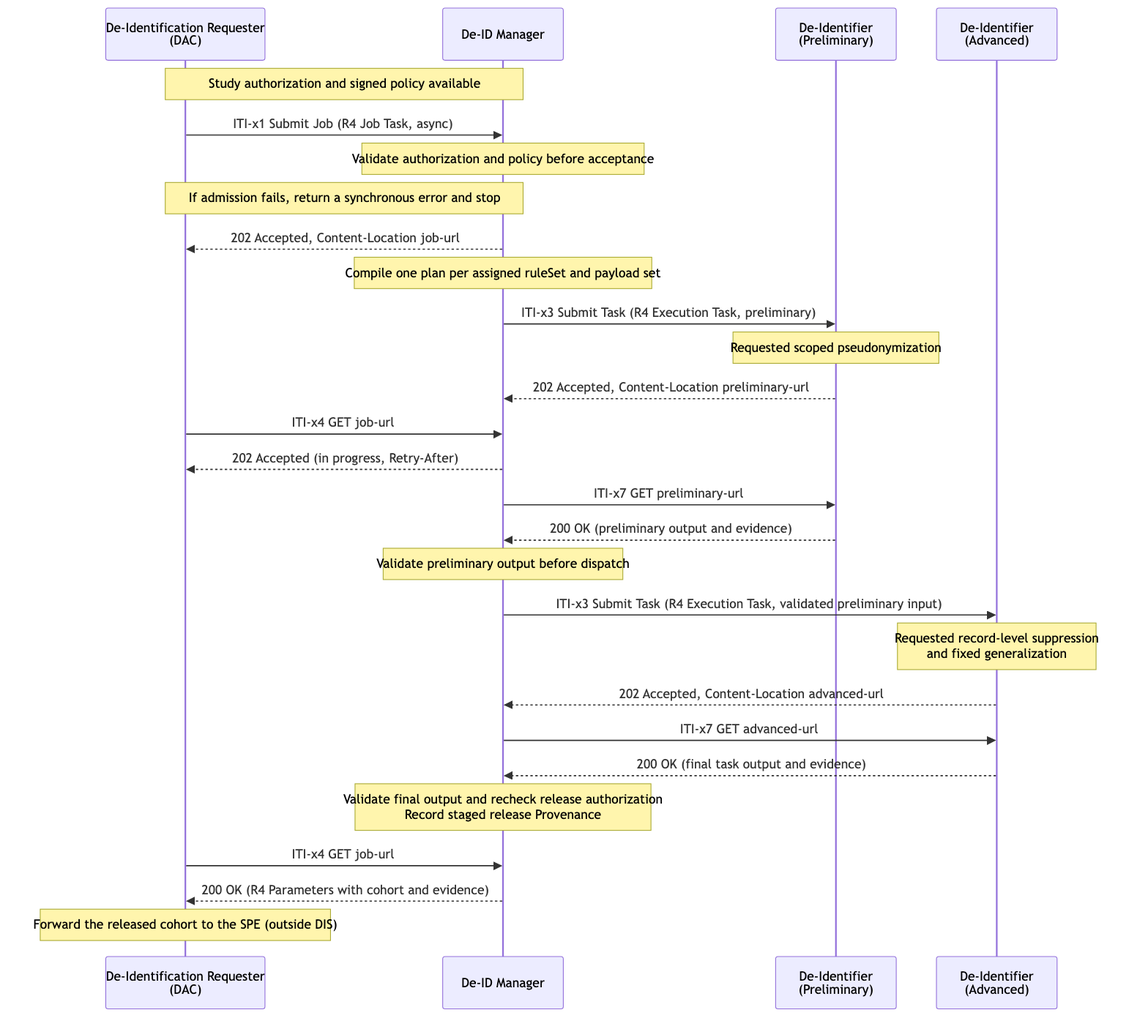
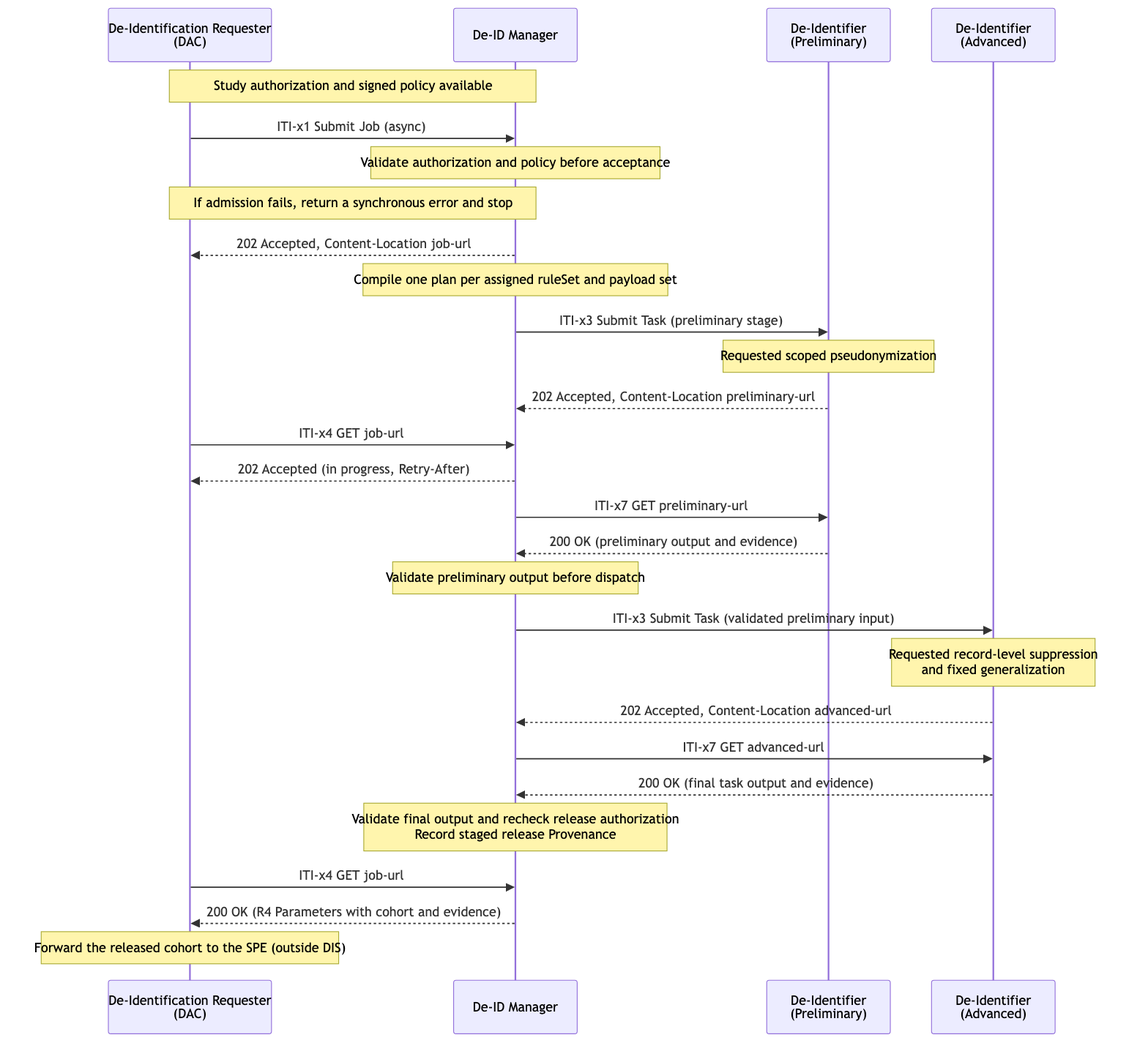
Use de-identification job and task in workflow prose

diff --git a/input/pagecontent/volume-1.md b/input/pagecontent/volume-1.md
@@ -71,7 +71,7 @@ The actors in this profile are described in more detail in the sections below.
 
 #### 1:PXX.1.1.1 De-Identification Requester
 
-The De-Identification Requester submits a complete R4 Job Task to the De-ID Manager. It carries the authorization and each selected payload set with its approved policy canonical and version. In synchronous mode, the Requester receives the result for each payload set in the ITI-x1 response, either as an inline result package or as an authorized HTTPS URL to retrieve it. In asynchronous mode, the Requester polls for job status and results via ITI-x4.
+The De-Identification Requester submits a de-identification job to the De-ID Manager with the authorization and each selected payload set with its approved policy canonical and version. In synchronous mode, the Requester receives the result for each payload set in the ITI-x1 response, either as an inline result package or as an authorized HTTPS URL to retrieve it. In asynchronous mode, the Requester polls for job status and results via ITI-x4.
 
 Phase 1 does not standardize how the Requester obtains or discovers a de-identification policy. The Requester declares the approved policy for each payload set by canonical URL and version in ITI-x1. Implementers MAY use any mechanism that produces a valid policy, including local configuration, administrative provisioning, bilateral agreement, or integration with an external policy management system.
 
@@ -79,7 +79,7 @@ Phase 1 does not standardize how the Requester obtains or discovers a de-identif
 
 #### 1:PXX.1.1.2 De-ID Manager
 
-The De-ID Manager receives de-identification jobs via ITI-x1, validates the data request authorization and verifies that each payload set's policy matches the policy approved in the authorization, prepares an execution plan for each assigned ruleSet and payload set, dispatches scoped R4 Execution Tasks to De-Identifiers via ITI-x3, and returns de-identified output and provenance evidence to the Requester.
+The De-ID Manager receives de-identification jobs via ITI-x1, validates the data request authorization and verifies that each payload set's policy matches the policy approved in the authorization, prepares an execution plan for each assigned ruleSet and payload set, dispatches de-identification tasks to De-Identifiers via ITI-x3, and returns de-identified output and provenance evidence to the Requester.
 
 The De-ID Manager retains persistent custody of Manager-managed identity mappings and reversibility records; a Requester may retain and supply its own lookup table for reversible jobs (§1:PXX.2.2). Whether these records are persisted depends on the declared reversibility mode (see [1:PXX.2.2](#1pxx22-reversible-pseudonymization-option) and [1:PXX.2.6](#1pxx26-irreversible-de-identification-option)). See [1:PXX.4.1](#1pxx41-concepts) for the policy model, four-point validation, and policy variants. See [1:PXX.5.4](#1pxx54-reversibility-material-custody) for custody obligations.
 
@@ -111,13 +111,13 @@ The transactions in this profile are summarized in the sections below.
 
 #### 1:PXX.1.2.1 Submit De-Identification Job [ITI-x1]
 
-The Requester submits an R4 Job Task containing the data request authorization and identifying the approved policy for each payload set. The De-ID Manager or Integrated actor validates the submission and orchestrates processing. In synchronous mode, the response returns one result per payload set, with each result package delivered inline or by authorized HTTPS URL. In asynchronous mode, acceptance provides a polling URL for ITI-x4.
+The Requester submits a de-identification job with the data request authorization and identifies the approved policy for each payload set. The De-ID Manager or Integrated actor validates the submission and orchestrates processing. In synchronous mode, the response returns one result per payload set, with each result package delivered inline or by authorized HTTPS URL. In asynchronous mode, acceptance provides a polling URL for ITI-x4.
 
 For more details see the detailed [transaction description](volume-2.html#23x1-submit-de-identification-job-iti-x1).
 
 #### 1:PXX.1.2.2 Submit De-Identification Task [ITI-x3]
 
-The De-ID Manager dispatches an R4 Execution Task to a De-Identifier. Each task carries the execution plan for one ruleSet applied to one payload set. In synchronous mode, the De-Identifier returns the result package inline or by authorized HTTPS URL. In asynchronous mode, acceptance provides a polling URL for ITI-x7.
+The De-ID Manager dispatches a de-identification task to a De-Identifier with the execution plan for one ruleSet applied to one payload set. In synchronous mode, the De-Identifier returns the result package inline or by authorized HTTPS URL. In asynchronous mode, acceptance provides a polling URL for ITI-x7.
 
 For more details see the detailed [transaction description](volume-2.html#23x3-submit-de-identification-task-iti-x3).
 
@@ -299,14 +299,14 @@ DIS introduces the following key concepts that provide necessary background for 
 
 #### 1:PXX.4.1.1 De-Identification Job and De-Identification Task
 
-- **De-Identification Job.** The overall de-identification work authorized for one request. It covers all selected payload sets, each with its own approved policy version, and includes coordinating the assignments and validating the results for release. For an external submission, the Requester represents the job as a **Job Task** and submits it through ITI-x1 with the data request authorization.
-- **De-Identification Task.** An assignment within a job that applies one ruleSet to one payload set or subset using one execution plan. When a policy declares stages, each assigned ruleSet belongs to one stage, which determines its place in the execution order. In distributed processing, the De-ID Manager represents the assignment as an **Execution Task** and submits it through ITI-x3. The Integrated actor performs assignments locally.
+- **De-Identification Job.** The overall de-identification work authorized for one request. It covers all selected payload sets, each with its own approved policy version, and includes coordinating the assignments and validating the results for release. The Requester submits an external job through ITI-x1 with the data request authorization.
+- **De-Identification Task.** An assignment within a job that applies one ruleSet to one payload set or subset using one execution plan. When a policy declares stages, each assigned ruleSet belongs to one stage, which determines its place in the execution order. In distributed processing, the De-ID Manager dispatches the task through ITI-x3. The Integrated actor performs assignments locally.
 
-After accepting a Job Task for distributed processing, the De-ID Manager organizes the job into one or more De-Identification Tasks. In UC-2, one job selects two payload sets, each with one ruleSet. The Manager creates one Execution Task for the R4 clinical and laboratory records and another for the R5 CT measurements. The Manager dispatches each task to its assigned De-Identifier and assembles both validated results for the original job. [UC-2 worked example](examples-grouped-fhir-job.html)
+After accepting a de-identification job for distributed processing, the De-ID Manager creates one or more de-identification tasks. In UC-2, one job selects two payload sets, each with one ruleSet. The Manager creates one task for the R4 clinical and laboratory records and another for the R5 CT measurements. The Manager dispatches each task to its assigned De-Identifier and assembles both validated results for the original job. [UC-2 worked example](examples-grouped-fhir-job.html)
 
 The Manager tracks which job, set, ruleSet, and stage each assignment belongs to. It uses that association to validate results, coordinate cancellation, and link audit records. A De-Identifier receives the information needed for its assignment. See the [assignment correlation and disclosure rules](volume-2.html#assignment-correlation).
 
-Job Task and Execution Task are profiles of the FHIR R4 `Task` resource. Each payload set declares its processing payload release independently, as described in [Cross-Version Payload Support](#1pxx232-cross-version-payload-support).
+The ITI-x1 job submission and ITI-x3 task submission each use a FHIR R4 `Task` resource conforming to the profile for that transaction. Each payload set declares its processing payload release independently, as described in [Cross-Version Payload Support](#1pxx232-cross-version-payload-support).
 
 #### 1:PXX.4.1.2 Policy, Payload, and Evidence
 
@@ -323,7 +323,7 @@ A de-identification policy is a reusable knowledge artifact. The same policy may
 
 Every ITI-x1 request declares the approved policy for each payload set by canonical URL and version. The Requester may also carry the policy content for each set.
 
-- **Policy content carried (`policyContent` present)** -- the Job Task carries the JWS-signed policy Library in a contained `Binary` resource referenced by the set. The Manager verifies the JWS signature and confirms the Library's canonical URL and version match the declared values. The Requester obtains the signed artifact through its implementation-defined mechanism.
+- **Policy content carried (`policyContent` present)** -- the job submission carries the JWS-signed policy Library in a contained `Binary` resource referenced by the set. The Manager verifies the JWS signature and confirms the Library's canonical URL and version match the declared values. The Requester obtains the signed artifact through its implementation-defined mechanism.
 - **Policy content resolved by Manager (`policyContent` absent)** -- the Manager resolves the declared policy version by implementation-defined means.
 
 A policy may be authored at the Semantic-Level or the Syntax-Level. A Semantic-Level policy uses semantic group references (`@subject-identifiers`, `@dates`, etc.) and is format-neutral -- it can be reused across data formats and use cases. Before execution, the Manager compiles it into a payload-specific execution plan. A Syntax-Level policy uses concrete element paths (FHIRPath, DICOM tags, etc.) for a specific payload family and version -- it is directly executable after validation. Both levels go through the same four-point validation. Both are approved by the joint privacy team.
@@ -420,13 +420,13 @@ A research consortium conducts a cross-border epidemiological study combining po
 
 Clinical data remain under primary-use governance when recorded or exchanged for care. Their reuse begins only after a secondary-use request has been assessed and an authorization context has been issued. The Data Access Coordinator (DAC) coordinates participating jurisdictions, resolves authorized source-data provision, and -- acting as the De-Identification Requester -- submits a DIS job to produce a cohort dataset transformed by pseudonymization and policy-specified record-level rules for subsequent delivery to a Secure Processing Environment (SPE).
 
-The DAC submits an asynchronous R4 Job Task through ITI-x1 with the data request authorization, the approved policy canonical and version, and a Bulk FHIR manifest that selects the prepared cohort. The Manager resolves that exact policy version from its trusted policy store and validates it against the authorization before accepting the job. It compiles a separate plan for each of the two assigned ruleSets.
+The DAC submits an asynchronous de-identification job through ITI-x1 with the data request authorization, the approved policy canonical and version, and a Bulk FHIR manifest that selects the prepared cohort. The Manager resolves that exact policy version from its trusted policy store and validates it against the authorization before accepting the job. It compiles a separate plan for each of the two assigned ruleSets.
 
 The preliminary ruleSet pseudonymizes direct identifiers with irreversible, project-scoped pseudonyms within the authorized scope identified by `identity-linkage-scope`, using the same authorized scope and deployment-provisioned salt version to preserve linkage for matching source identifier pairs within the de-identified dataset. The advanced ruleSet applies policy-specified record-level transformations such as reducing birth dates to year precision. Small-cell handling and transformations requiring cohort statistics are outside Phase 1; any required dataset-level assessment or processing occurs outside this DIS workflow before release to the SPE.
 
 Because DIS-IRREVERSIBLE is declared, the De-ID Manager does not retain identity tables or pseudonym indices after job completion. No DIS reverse-mapping service is maintained; this does not exclude identification through auxiliary information or reproduction using retained derivation secrets.
 
-Each stage has one assigned ruleSet. The Manager sends the corresponding asynchronous R4 Execution Task through ITI-x3 and polls the assigned De-Identifier through ITI-x7. The Manager validates the preliminary output before dispatching the advanced task with that validated input. It validates the final output, rechecks release authorization, and records staged release Provenance. The DAC retrieves the cohort and its evidence through ITI-x4, then forwards the cohort to the SPE outside the DIS exchange.
+Each stage has one assigned ruleSet. The Manager dispatches the corresponding asynchronous de-identification task through ITI-x3 and polls the assigned De-Identifier through ITI-x7. The Manager validates the preliminary output before dispatching the advanced task with that validated input. It validates the final output, rechecks release authorization, and records staged release Provenance. The DAC retrieves the cohort and its evidence through ITI-x4, then forwards the cohort to the SPE outside the DIS exchange.
 
 The [UC-1 Bulk FHIR cohort example](examples-bulk-fhir-cohort.html) shows both stages, release evidence, NDJSON delivery, and an optional cancellation variant.
 
@@ -446,11 +446,11 @@ An AI/ML consortium prepares a lung cancer cohort for model development or valid
 
 ##### 1:PXX.4.2.2.1 AI/ML Method Development Use Case Description
 
-The consortium holds a data permit identifying the approved cohort, inputs, purposes, policies, and linkage requirements. Acting as the De-Identification Requester, the DAC submits one asynchronous R4 Job Task through ITI-x1 with two FHIR payload sets. One set declares R4 and selects clinical records and laboratory results. The other declares R5 and carries CT-derived measurements as [R5 Observation](https://hl7.org/fhir/R5/observation.html) resources. The DIS requests, responses, and evidence use R4 for both sets.
+The consortium holds a data permit identifying the approved cohort, inputs, purposes, policies, and linkage requirements. Acting as the De-Identification Requester, the DAC submits one asynchronous de-identification job through ITI-x1 with two FHIR payload sets. One set declares R4 and selects clinical records and laboratory results. The other declares R5 and carries CT-derived measurements as [R5 Observation](https://hl7.org/fhir/R5/observation.html) resources. The DIS requests, responses, and evidence use R4 for both sets.
 
 The Manager validates the permit and both approved policies before accepting the job and returning a polling URL. Each set uses one ruleSet. The R4 policy removes `Patient.name` and preserves links from the laboratory results to the output Patient. The R5 policy retains the CT measurements and removes the patient reference because the permit authorizes those measurements for independent analysis. The job selects irreversible processing. A `setId` correlates each set with its task and result within the job.
 
-The Manager dispatches a synchronous R4 Execution Task through ITI-x3 for each set and validates both results. The job remains asynchronous at the Requester–Manager interface. If the acceptance response is lost, the DAC can recover the original polling URL using the same submission and the recovery header. After rechecking release authorization, the Manager makes both sets and their evidence available through ITI-x4. The DAC delivers the approved FHIR output to the SPE outside DIS.
+The Manager dispatches a synchronous de-identification task through ITI-x3 for each set and validates both results. The job remains asynchronous at the Requester–Manager interface. If the acceptance response is lost, the DAC can recover the original polling URL using the same submission and the recovery header. After rechecking release authorization, the Manager makes both sets and their evidence available through ITI-x4. The DAC delivers the approved FHIR output to the SPE outside DIS.
 
 The [UC-2 mixed-version FHIR example](examples-grouped-fhir-job.html) shows submission recovery, a task and policy for each payload version, and release of both results.
 
@@ -466,9 +466,9 @@ A hospital EHR pseudonymizes patient context before sending a laboratory order t
 
 ##### 1:PXX.4.2.3.1 Clinical Pathology Order Use Case Description
 
-Institutional policy prohibits the external lab from seeing direct patient identifiers. The EHR submits a synchronous R4 Job Task through ITI-x1 with care-context authorization, the canonical and version of a hospital-approved Semantic-Level policy, and an inline manifest package selecting the `Patient` and `ServiceRequest`. The Manager resolves the declared policy version from its institutional policy store.
+Institutional policy prohibits the external lab from seeing direct patient identifiers. The EHR submits a synchronous de-identification job through ITI-x1 with care-context authorization, the canonical and version of a hospital-approved Semantic-Level policy, and an inline manifest package selecting the `Patient` and `ServiceRequest`. The Manager resolves the declared policy version from its institutional policy store.
 
-The Manager validates the authorization and policy, then submits a synchronous R4 Execution Task through ITI-x3 with the compiled plan for one ruleSet. The De-Identifier assigns a scoped pseudonym and preserves the `ServiceRequest.subject` link to the pseudonymized `Patient`. Matching source identifier pairs yield the same pseudonym when the worker uses the same authorized scope, effective salt, and salt version. The EHR uses that consistency to correlate later lab results. The Manager returns the pseudonymized result package and evidence inline through ITI-x1.
+The Manager validates the authorization and policy, then dispatches a synchronous de-identification task through ITI-x3 with the compiled plan for one ruleSet. The De-Identifier assigns a scoped pseudonym and preserves the `ServiceRequest.subject` link to the pseudonymized `Patient`. Matching source identifier pairs yield the same pseudonym when the worker uses the same authorized scope, effective salt, and salt version. The EHR uses that consistency to correlate later lab results. The Manager returns the pseudonymized result package and evidence inline through ITI-x1.
 
 The De-Identifier returns the generated lookup table to the Manager, which validates and retains the mapping before release. The EHR sends the pseudonymized order to the lab. When the result comes back with the pseudonym, the EHR uses an authorized, implementation-defined resolution interaction to associate it with the correct chart. The Manager provides only the resolution result needed for that association. The lab exchange and resolution occur outside DIS.
 
@@ -486,7 +486,7 @@ A hospital EHR pseudonymizes patient data before transmitting to a cloud-hosted 
 
 ##### 1:PXX.4.2.4.1 AI-Assisted Clinical Decision Support Use Case Description
 
-A clinician triggers AI decision support for an active encounter. The EHR submits a synchronous R4 Job Task through ITI-x1 to the on-premise Manager with a requester-carried, signed Syntax-Level R4 policy and its approved canonical and version. A versioned HTTPS manifest selects the `Patient` and the authorized linked clinical resources, such as `Observation` and `Encounter`. The Manager verifies the signature and the approved policy identity. The Manager sends an R4 Execution Task through ITI-x3 to an on-premise De-Identifier. The output clinical references remain linked to the pseudonymized `Patient`.
+A clinician triggers AI decision support for an active encounter. The EHR submits a synchronous de-identification job through ITI-x1 to the on-premise Manager with a requester-carried, signed Syntax-Level R4 policy and its approved canonical and version. A versioned HTTPS manifest selects the `Patient` and the authorized linked clinical resources, such as `Observation` and `Encounter`. The Manager verifies the signature and the approved policy identity. The Manager dispatches a synchronous de-identification task through ITI-x3 to an on-premise De-Identifier. The output clinical references remain linked to the pseudonymized `Patient`.
 
 The De-Identifier returns the output and evidence to the Manager. When it generates patient mappings, it also returns the protected `generatedLookupTable`. The Manager validates and retains the mappings before releasing the pseudonymized result and evidence to the EHR through ITI-x1. The EHR sends the pseudonymized clinical data to the cloud service outside DIS and receives recommendations referencing the pseudonym.
 

diff --git a/input/pagecontent/volume-2.md b/input/pagecontent/volume-2.md
@@ -15,8 +15,8 @@ ITI-x1 and ITI-x3 each define one required operation input named `workItem` of t
 
 | Transaction | Input | Successful response |
 |-------------|-------|---------------------|
-| ITI-x1 Submit Job | [DIS Job Task](StructureDefinition-DIS-JobTask.html) with one authorization and one or more payload sets. | HTTP 200 with one `payloadResult` per submitted set and one `validationStatus`, or HTTP 202 with `Content-Location` and an empty body for an accepted async job. |
-| ITI-x3 Submit Task | [DIS Execution Task](StructureDefinition-DIS-ExecutionTask.html) with one assigned set and its execution instructions. | HTTP 200 with one `payloadResult` and one `validationStatus`, plus a protected `generatedLookupTable` when required, or HTTP 202 with `Content-Location` and an empty body for an accepted async task. |
+| ITI-x1 Submit Job | FHIR R4 `Task` conforming to [`DIS-JobTask`](StructureDefinition-DIS-JobTask.html) with one authorization and one or more payload sets. | HTTP 200 with one `payloadResult` per submitted set and one `validationStatus`, or HTTP 202 with `Content-Location` and an empty body for an accepted async job. |
+| ITI-x3 Submit Task | FHIR R4 `Task` conforming to [`DIS-ExecutionTask`](StructureDefinition-DIS-ExecutionTask.html) with one assigned set and its execution instructions. | HTTP 200 with one `payloadResult` and one `validationStatus`, plus a protected `generatedLookupTable` when required, or HTTP 202 with `Content-Location` and an empty body for an accepted async task. |
 | ITI-x4 Retrieve Job Output | Authorized GET of the job polling URL, or DELETE when cancellable mode was confirmed. | HTTP 200 with the same body as synchronous ITI-x1 success. HTTP 202 indicates processing is pending and carries no result. |
 | ITI-x7 Retrieve Task Output | Authorized GET of the task polling URL, or DELETE when cancellable mode was confirmed. | HTTP 200 with the same body as synchronous ITI-x3 success. HTTP 202 indicates processing is pending and carries no result. |
 {: .grid}
@@ -165,9 +165,9 @@ The De-Identification Requester sends a Submit De-Identification Job Request whe
 
 The De-Identification Requester SHALL invoke the `$submit-dis-job` operation using `POST [base]/$submit-dis-job`. The request SHALL use `Content-Type: application/fhir+json`.
 
-The request body SHALL be a [DIS Job Task](StructureDefinition-DIS-JobTask.html) with `intent = order` and `status = requested`. The following coded inputs carry the authorization and selected data.
+The request body SHALL be a FHIR R4 `Task` conforming to [`DIS-JobTask`](StructureDefinition-DIS-JobTask.html) with `intent = order` and `status = requested`. The following coded inputs carry the authorization and selected data.
 
-<p id="t3.x1.4.1.2-1" class="tableTitle"><strong>Table 2:3.x1.4.1.2-1: ITI-x1 Job Task Inputs</strong></p>
+<p id="t3.x1.4.1.2-1" class="tableTitle"><strong>Table 2:3.x1.4.1.2-1: ITI-x1 Job Submission Inputs</strong></p>
 
 | Input code | Cardinality | Value | Description |
 |------------|-------------|-------|-------------|
@@ -334,9 +334,9 @@ The De-ID Manager sends a Submit De-Identification Task Request for each ruleSet
 
 The De-ID Manager SHALL invoke the `$submit-dis-task` operation using `POST [base]/$submit-dis-task`. The request SHALL use `Content-Type: application/fhir+json`.
 
-The request body SHALL be a [DIS Execution Task](StructureDefinition-DIS-ExecutionTask.html) with `intent = order` and `status = requested`. The coded inputs identify the assigned set and execution instructions.
+The request body SHALL be a FHIR R4 `Task` conforming to [`DIS-ExecutionTask`](StructureDefinition-DIS-ExecutionTask.html) with `intent = order` and `status = requested`. The coded inputs identify the assigned set and execution instructions.
 
-<p id="t3.x3.4.1.2-1" class="tableTitle"><strong>Table 2:3.x3.4.1.2-1: ITI-x3 Execution Task Inputs</strong></p>
+<p id="t3.x3.4.1.2-1" class="tableTitle"><strong>Table 2:3.x3.4.1.2-1: ITI-x3 Task Submission Inputs</strong></p>
 
 | Input code | Cardinality | Value | Description |
 |------------|-------------|-------|-------------|
@@ -352,13 +352,13 @@ The Manager SHALL preserve the job's `setId`, binding, and version for the assig
 
 <a name="assignment-correlation"></a>
 
-**Assignment correlation and disclosure.** Before dispatching ITI-x3, the Manager SHALL record a protected association between the [scoped Job Task identifier](#submission-retries) and the scoped Execution Task identifier. The association SHALL identify the assigned De-Identifier, `setId`, `rule-set-id`, and `stage-id` when present. The Manager SHALL associate any returned polling URL with that assignment. It SHALL use this association to correlate synchronous responses, polls, recovery, failures, cancellation, and task evidence to the correct job. A `setId` identifies a payload set within one job. The Manager SHALL use the job and assignment context when different jobs reuse a `setId`.
+**Assignment correlation and disclosure.** Before dispatching ITI-x3, the Manager SHALL record a protected association between the [scoped job submission identifier](#submission-retries) and the scoped task submission identifier. The association SHALL identify the assigned De-Identifier, `setId`, `rule-set-id`, and `stage-id` when present. The Manager SHALL associate any returned polling URL with that assignment. It SHALL use this association to correlate synchronous responses, polls, recovery, failures, cancellation, and task evidence to the correct job. A `setId` identifies a payload set within one job. The Manager SHALL use the job and assignment context when different jobs reuse a `setId`.
 
-The Manager SHALL limit job information disclosed in ITI-x3 to the assigned manifest and execution inputs, the source policy identity in the execution plan, and an optional authorized parent identifier. It SHALL withhold the Job Task body, the job polling URL, the data request authorization, the approved policy artifact, and details of other assignments. The De-Identifier uses the source policy identity in the plan for evidence and executes the assigned plan.
+The Manager SHALL limit job information disclosed in ITI-x3 to the assigned manifest and execution inputs, the source policy identity in the execution plan, and an optional authorized parent identifier. It SHALL withhold the job submission body, the job polling URL, the data request authorization, the approved policy artifact, and details of other assignments. The De-Identifier uses the source policy identity in the plan for evidence and executes the assigned plan.
 
-When the applicable authorization permits the assigned De-Identifier to receive a parent identifier, the Manager MAY provide `Task.partOf` as a [logical reference]({{site.data.fhir.path}}references.html#logical) to the parent DIS Job Task. If present, `partOf.identifier` SHALL carry a Manager-assigned opaque system and value scoped to that job and De-Identifier. The Manager SHALL preserve its association with the parent job and SHALL NOT reuse the alias for another job or share it with another De-Identifier. The De-Identifier SHALL accept an otherwise valid assignment with or without this identifier. It MAY use an authorized alias and the supplied stage identifier to correlate its own assignments. The alias confers no access to the parent job and is independent of the task identifier and polling URL. DIS Execution Tasks exclude `Task.basedOn` and `Task.groupIdentifier`.
+When the applicable authorization permits the assigned De-Identifier to receive a parent identifier, the Manager MAY provide `Task.partOf` as a [logical reference]({{site.data.fhir.path}}references.html#logical) to the FHIR R4 `Task` representing the parent job. If present, `partOf.identifier` SHALL carry a Manager-assigned opaque system and value scoped to that job and De-Identifier. The Manager SHALL preserve its association with the parent job and SHALL NOT reuse the alias for another job or share it with another De-Identifier. The De-Identifier SHALL accept an otherwise valid assignment with or without this identifier. It MAY use an authorized alias and the supplied stage identifier to correlate its own assignments. The alias confers no access to the parent job and is independent of the task identifier and polling URL. ITI-x3 submissions exclude `Task.basedOn` and `Task.groupIdentifier`.
 
-The De-ID Manager SHALL set the `reversibility-mode` input in every ITI-x3 Execution Task to the job's reversibility mode. The De-Identifier SHALL apply the supplied mode.
+The De-ID Manager SHALL set the `reversibility-mode` input in every ITI-x3 submission to the job's reversibility mode. The De-Identifier SHALL apply the supplied mode.
 
 When using `lookup-table`, the Manager SHALL dispatch only a protected reference to a document with the entries needed for the assigned task. If the source contains additional entries, the Manager SHALL create a [task-scoped lookup document](volume-3.html#3pxx5-reversible-lookup-table) and track its correlation to the pinned source. The De-Identifier's credentials SHALL NOT grant access to the unrestricted table in that case. The Manager SHALL delete derived task artifacts at termination unless retention is explicitly authorized.
 
@@ -419,7 +419,7 @@ The De-Identifier SHALL return one `payloadResult` matching the dispatched `setI
 
 **202 Accepted — Asynchronous accepted (DIS-ASYNC-TASK).** The response body is empty. The `Content-Location` response header contains the polling URL for use with ITI-x7.
 
-**400 Bad Request.** The response body is an R4 `OperationOutcome` describing the malformed or nonconforming Execution Task.
+**400 Bad Request.** The response body is an R4 `OperationOutcome` describing the malformed or nonconforming task submission.
 
 **401 Unauthorized / 403 Forbidden.** The response body is an R4 `OperationOutcome` describing the authorization failure.
 

diff --git a/input/pagecontent/examples-grouped-fhir-job.md b/input/pagecontent/examples-grouped-fhir-job.md
@@ -2,17 +2,17 @@
 **Informative example.** This synthetic job illustrates [UC-2 FHIR Input Preparation for Multimodal AI/ML](volume-1.html#uc-2). The job is asynchronous and each worker task is synchronous. The two policies demonstrate selected field removals. Release of real data requires a policy appropriate to the approved use and the identifying content in the input.
 </div>
 
-The cohort job has two payload sets. One contains **R4 clinical records and laboratory results** and the other contains **R5 CT-derived measurements**. The walkthrough uses a hosted Patient and a linked lab result as sample records for the first set and an inline CT measurement for the second set. Each set uses its own policy and declared FHIR version. The permit authorizes independent analysis of the CT measurements. The [illustrative FHIR and DICOM extension](draft-native-payload-bindings.html#illustrative-mixed-fhir-and-dicom-job) shows how a separate payload set could carry native CT images. The Job Task, Execution Tasks, Parameters, manifests, wrappers, and Provenance all use R4.
+The cohort job has two payload sets. One contains **R4 clinical records and laboratory results** and the other contains **R5 CT-derived measurements**. The walkthrough uses a hosted Patient and a linked lab result as sample records for the first set and an inline CT measurement for the second set. Each set uses its own policy and declared FHIR version. The permit authorizes independent analysis of the CT measurements. The [illustrative FHIR and DICOM extension](draft-native-payload-bindings.html#illustrative-mixed-fhir-and-dicom-job) shows how a separate payload set could carry native CT images. The job and task submissions use FHIR R4 `Task` resources. The Parameters, manifests, wrappers, and Provenance also use R4.
 
 <a name="grouped-fhir-submission"> </a>
 
 ## Submit the Job
 
-Send the [ITI-x1 request](Task-grouped-fhir-job-request.html) to `POST /fhir/$submit-dis-job` with `Content-Type: application/fhir+json` and `Prefer: respond-async`. Its one authorization reference identifies the permit covering both sets and their policy versions. The [hosted artifact collection](Bundle-grouped-fhir-hosted-artifacts.html) shows the permit, R4 source and result Lists, and R4 clinical resources at their example locations. The Requester sends the Job Task directly as the ITI-x1 request body.
+Send the [ITI-x1 request](Task-grouped-fhir-job-request.html) to `POST /fhir/$submit-dis-job` with `Content-Type: application/fhir+json` and `Prefer: respond-async`. Its one authorization reference identifies the permit covering both sets and their policy versions. The [hosted artifact collection](Bundle-grouped-fhir-hosted-artifacts.html) shows the permit, R4 source and result Lists, and R4 clinical resources at their example locations. The Requester sends the R4 `Task` directly as the ITI-x1 request body.
 
 ### Payload Sets and Approved Policies
 
-Each Job Task input names the versioned policy approved for that set. The hosted artifact collection includes both policy Libraries and the plans derived from them. Both policies use irreversible processing.
+Each payload-set input in the job submission names the versioned policy approved for that set. The hosted artifact collection includes both policy Libraries and the plans derived from them. Both policies use irreversible processing.
 
 | Set | Manifest and payload | Approved policy |
 |-----|----------------------|-----------------|
@@ -30,8 +30,8 @@ Send each task to `POST /fhir/$submit-dis-task`. The task request carries one pa
 
 | Set | ITI-x3 request | ITI-x3 success response | Evidence targets |
 |-----|----------------|-------------------------|------------------|
-| `patient-r4` | [Execution Task for the R4 clinical set](Task-grouped-fhir-task-patient-r4.html) | [R4 Parameters result](Parameters-grouped-fhir-task-result-patient-r4.html) | Versioned HTTPS references to the result Patient and hemoglobin Observation selected by the hosted result List. |
-| `imaging-measurement-r5` | [Execution Task for the R5 imaging measurement](Task-grouped-fhir-task-imaging-measurement-r5.html) | [R4 Parameters result](Parameters-grouped-fhir-task-result-imaging-measurement-r5.html) | Provenance in the [result package](Bundle-grouped-fhir-r5-output.html) targets the selected R4 wrapper by its Bundle entry URL. |
+| `patient-r4` | [Task submission for the R4 clinical set](Task-grouped-fhir-task-patient-r4.html) | [R4 Parameters result](Parameters-grouped-fhir-task-result-patient-r4.html) | Versioned HTTPS references to the result Patient and hemoglobin Observation selected by the hosted result List. |
+| `imaging-measurement-r5` | [Task submission for the R5 imaging measurement](Task-grouped-fhir-task-imaging-measurement-r5.html) | [R4 Parameters result](Parameters-grouped-fhir-task-result-imaging-measurement-r5.html) | Provenance in the [result package](Bundle-grouped-fhir-r5-output.html) targets the selected R4 wrapper by its Bundle entry URL. |
 {: .grid}
 
 Both synchronous task responses use `200 OK` and include the corresponding `payloadResult` with R4 Provenance. In the sample R4 records, a hemoglobin result of 12.4 g/dL remains linked to the de-identified Patient. In the sample R5 record, a CT lesion diameter of 28 mm is retained and the source patient reference is removed. The wrapper attachment still carries an [R5 Observation](https://hl7.org/fhir/R5/observation.html). See [ITI-x3](volume-2.html#23x3-submit-de-identification-task-iti-x3).

diff --git a/input/pagecontent/examples-cloud-decision-support.md b/input/pagecontent/examples-cloud-decision-support.md
@@ -2,11 +2,11 @@
 **Informative example.** The patient context, authorization, signing key, and URLs are synthetic. See [UC-4 Cloud Decision Support](volume-1.html#1pxx424-use-case-4-ai-assisted-clinical-decision-support-cloud-deployment).
 </div>
 
-An EHR prepares the authorized data for one encounter before sending them to a cloud decision support service. The [R4 Job Task](Task-uc4-cloud-decision-support-job.html) selects a versioned HTTPS List for an R4 Patient, Encounter, and linked Observations. The Manager and De-Identifier operate within the hospital trust boundary. The EHR invokes the job synchronously.
+An EHR prepares the authorized data for one encounter before sending them to a cloud decision support service. The [FHIR R4 `Task` for the job](Task-uc4-cloud-decision-support-job.html) selects a versioned HTTPS List for an R4 Patient, Encounter, and linked Observations. The Manager and De-Identifier operate within the hospital trust boundary. The EHR invokes the job synchronously.
 
 ## Approved Policy and Delivery
 
-The EHR declares `https://governance.example.org/policies/uc4-cloud-decision-support|1.0` and carries the approved, JWS-signed [R4 Syntax-Level policy Library](Library-uc4-cloud-decision-support-policy.html). The payload-set metadata's `policyContent` references `#approved-policy`, the contained R4 Binary with `contentType = application/jose`. Its `data` decodes to the compact JWS. The JWS header includes the synthetic verification key. The Manager uses its configured trust model to verify the signature and checks the signed Library's canonical URL and version against the authorization and Job Task.
+The EHR declares `https://governance.example.org/policies/uc4-cloud-decision-support|1.0` and carries the approved, JWS-signed [R4 Syntax-Level policy Library](Library-uc4-cloud-decision-support-policy.html). The payload-set metadata's `policyContent` references `#approved-policy`, the contained R4 Binary with `contentType = application/jose`. Its `data` decodes to the compact JWS. The JWS header includes the synthetic verification key. The Manager uses its configured trust model to verify the signature and checks the signed Library's canonical URL and version against the authorization and job submission.
 
 The policy targets `Patient.identifier` for reversible salted pseudonymization within the authorized `cloud-cds-2026` linkage scope and removes `Patient.name`. The Manager validates these concrete R4 paths and packages the approved rules in the execution plan. The selected Encounter and Observations retain references that resolve to the pseudonymized Patient. A real release needs approved rules covering any additional identifying content in its selected resources.
 
@@ -14,8 +14,8 @@ The policy targets `Patient.identifier` for reversible salted pseudonymization w
 
 | Step | Exchange | What to verify |
 |---|---|---|
-| 1 | The EHR POSTs the Job Task to ITI-x1 and waits on the original HTTP call. | The Manager validates authorization, the signed policy, and the exact versions selected by the List. |
-| 2 | The Manager dispatches one R4 Execution Task through ITI-x3 with the versioned input selection, compiled plan and reversible mode. | The worker applies the approved rules, preserves the clinical references, and returns `200 OK` with the result package, Provenance, and the protected `generatedLookupTable` parameter. |
+| 1 | The EHR submits the job through ITI-x1 and waits on the original HTTP call. | The Manager validates authorization, the signed policy, and the exact versions selected by the List. |
+| 2 | The Manager dispatches one de-identification task through ITI-x3 with the versioned input selection, compiled plan and reversible mode. | The worker applies the approved rules, preserves the clinical references, and returns `200 OK` with the result package, Provenance, and the protected `generatedLookupTable` parameter. |
 | 3 | The Manager validates the result and evidence and retains the lookup table in the hospital. It returns `200 OK` on ITI-x1 with the pseudonymized result and Provenance. | The returned `payloadResult` reuses `encounter-context-r4`. The EHR-facing response contains the approved result and evidence. The mapping stays with the Manager. |
 {: .grid}
 

diff --git a/input/pagecontent/examples-bulk-fhir-cohort.md b/input/pagecontent/examples-bulk-fhir-cohort.md
@@ -6,7 +6,7 @@ The Data Access Coordinator submits one asynchronous R4 job for an authorized re
 
 ## Approved Policy
 
-The Job Task declares `https://governance.example.org/policies/uc1-bulk-cohort|1.0`. The Manager resolves this [approved R4 Syntax-Level policy](Library-uc1-bulk-cohort-policy.html) through its trusted policy store and validates it against the authorization.
+The job submission declares `https://governance.example.org/policies/uc1-bulk-cohort|1.0`. The Manager resolves this [approved R4 Syntax-Level policy](Library-uc1-bulk-cohort-policy.html) through its trusted policy store and validates it against the authorization.
 
 | Stage | Assigned ruleSet | Result |
 |---|---|---|
@@ -20,7 +20,7 @@ To reproduce the sample output, use the source identifier pairs in the input fil
 
 | Step | Exchange | What to verify |
 |---|---|---|
-| 1 | The Requester sends ITI-x1 with `Prefer: respond-async`. The [R4 Job Task](Task-uc1-bulk-cohort-job.html) carries authorization and one input with `setId = cohort-r4`, `payloadBinding = DIS-FHIR-Payload`, `payloadVersion = R4`, and `manifestFormat = fhir-bulk-data`. The `application/json` attachment locates the input manifest. | The Manager validates the permit and policy before returning `202 Accepted` and the job polling URL in `Content-Location`. |
+| 1 | The Requester sends ITI-x1 with `Prefer: respond-async`. The [FHIR R4 `Task` for the job](Task-uc1-bulk-cohort-job.html) carries authorization and one input with `setId = cohort-r4`, `payloadBinding = DIS-FHIR-Payload`, `payloadVersion = R4`, and `manifestFormat = fhir-bulk-data`. The `application/json` attachment locates the input manifest. | The Manager validates the permit and policy before returning `202 Accepted` and the job polling URL in `Content-Location`. |
 | 2 | The Manager sends ITI-x3 with `Prefer: respond-async`, the authorized `cohort-r4` set, the preliminary plan, its ruleSet and stage IDs, and `reversibility-mode = irreversible`. | The worker accepts with its own polling URL. The Manager polls that URL through ITI-x7 and validates the preliminary files and their evidence. The files contain pseudonyms and the original birth dates. |
 | 3 | The Manager sends a second asynchronous ITI-x3 with the advanced plan, ruleSet and stage IDs. Its manifest selects the exact validated preliminary NDJSON files. | The Manager polls the advanced worker's URL through ITI-x7. The final files retain the pseudonyms and contain birth years. The Manager validates the final files and their evidence and rechecks release authorization. |
 | 4 | The Requester polls the job URL through ITI-x4. A pending poll returns `202 Accepted`. The completed poll returns `200 OK` with the [R4 result Parameters](Parameters-bulk-r4-result.html). | The [result package](Bundle-bulk-r4-result.html) contains the [output manifest](examples/bulk-fhir/output-manifest.json), two file descriptors, the final worker's evidence, and the Manager's staged release Provenance. Both evidence records target the two final file descriptors. |

diff --git a/input/pagecontent/examples-reversible-pathology.md b/input/pagecontent/examples-reversible-pathology.md
@@ -6,7 +6,7 @@ In [UC-3 Clinical Pathology Order](volume-1.html#1pxx423-use-case-3-clinical-pat
 
 ## Approved Reversible Policy
 
-The Job Task declares the approved versioned canonical and the Manager resolves it from the hospital policy store. This decoded Semantic-Level policy governs the Manager-managed variant. The [compiled execution plan](volume-3.html#3pxx213-execution-plan-example) resolves the scope and expands the rule targets.
+The job submission declares the approved versioned canonical and the Manager resolves it from the hospital policy store. This decoded Semantic-Level policy governs the Manager-managed variant. The [compiled execution plan](volume-3.html#3pxx213-execution-plan-example) resolves the scope and expands the rule targets.
 
 ```json
 {
@@ -47,7 +47,7 @@ The Job Task declares the approved versioned canonical and the Manager resolves 
 
 ## Synchronous Exchange
 
-The EHR submits the R4 Job Task through ITI-x1. The Manager verifies the authorization and approved policy, expands the semantic groups into concrete R4 selectors, and submits the R4 Execution Task through ITI-x3. Both calls use synchronous processing. The worker assigns the pseudonym, removes `Patient.name`, and updates the order's `ServiceRequest.subject` to reference the pseudonymized Patient. The Manager validates that the link resolves in the result package before completing ITI-x1.
+The EHR submits the de-identification job through ITI-x1. The Manager verifies the authorization and approved policy, expands the semantic groups into concrete R4 selectors, and dispatches a de-identification task through ITI-x3. Both calls use synchronous processing. The worker assigns the pseudonym, removes `Patient.name`, and updates the order's `ServiceRequest.subject` to reference the pseudonymized Patient. The Manager validates that the link resolves in the result package before completing ITI-x1.
 
 | Step | Requester-supplied mapping | Manager-managed mapping |
 |------|---------------------------|-------------------------|
